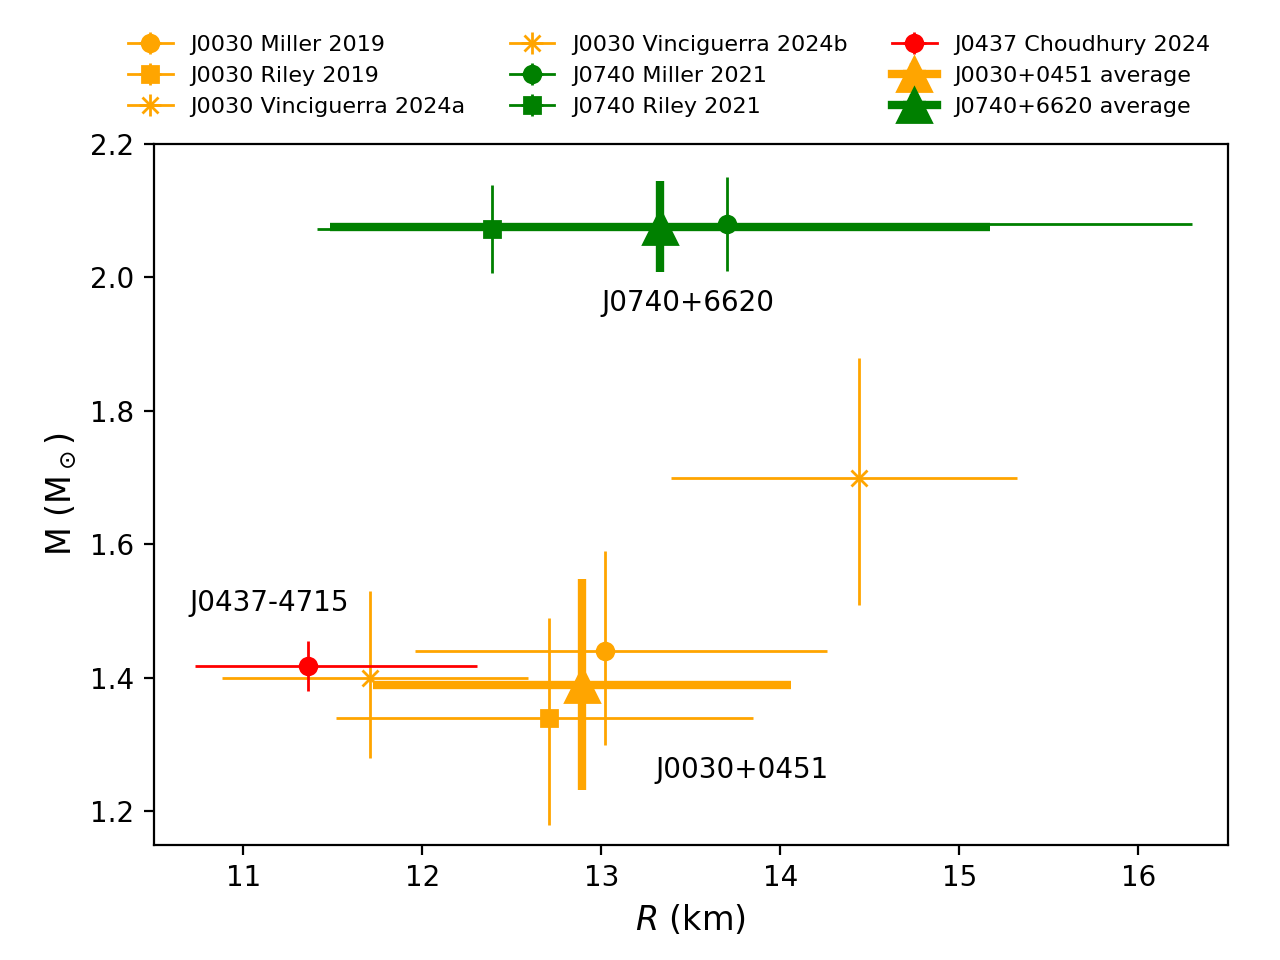
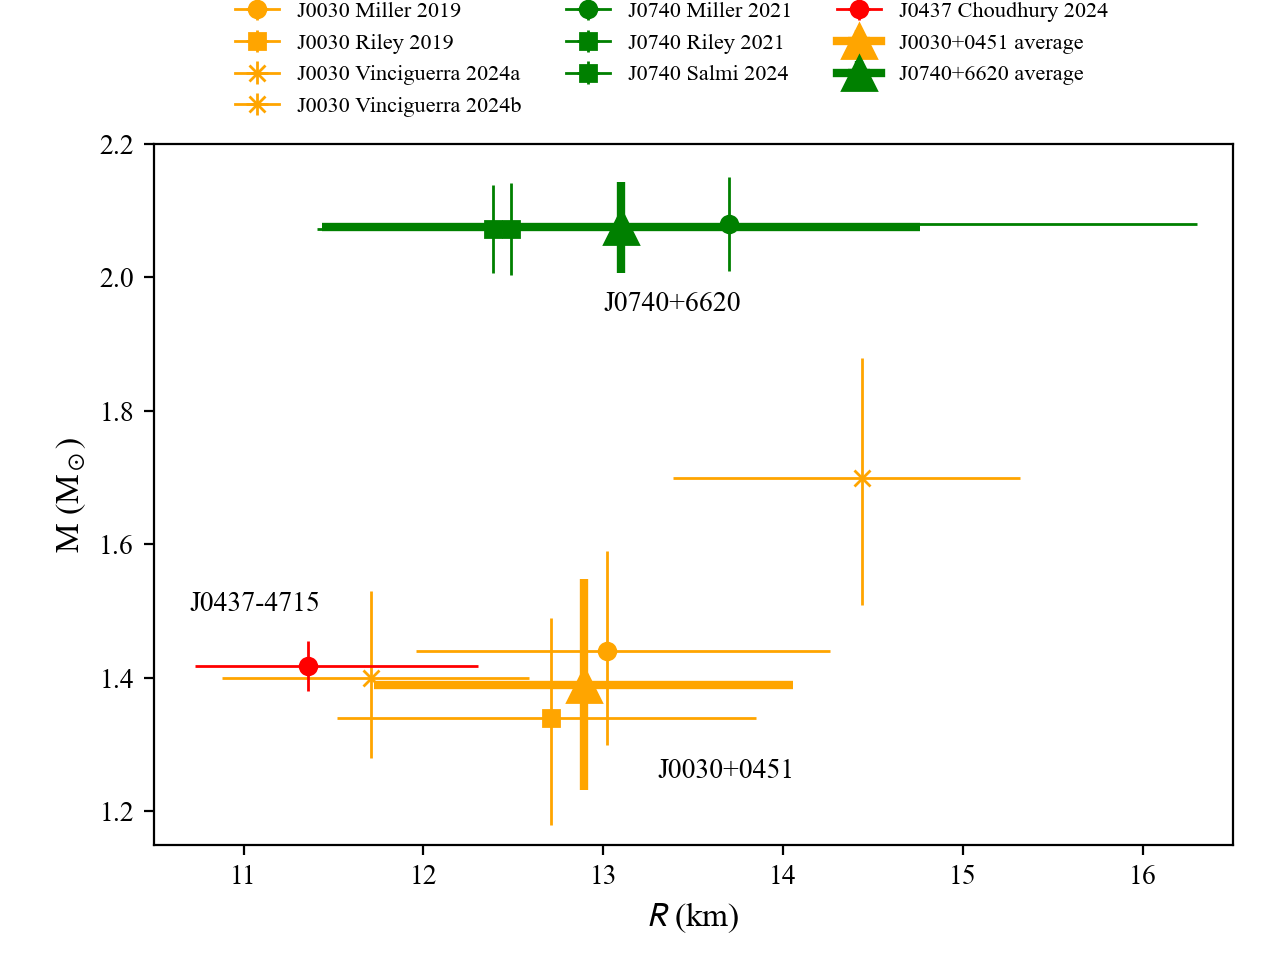
update MR measurements for MSP J0740

diff --git a/version-0.2/nucleardatapy/astro/setup_mr.py b/version-0.2/nucleardatapy/astro/setup_mr.py
@@ -39,7 +39,7 @@ def mr_obss( source ):
     if source.lower()=='j0030+0451':
         obss = [ 1, 2, 3, 4 ]
     elif source.lower()=='j0740+6620':
-        obss = [ 1, 2 ]
+        obss = [ 1, 2, 3 ]
     elif source.lower()=='j0437-4715':
         obss = [ 1 ]
     #
@@ -141,6 +141,14 @@ class setupMR():
                 self.ref='T.E. Riley, A.L. Watts, P.S. Ray, S. Bogdanov, et al., ApJL 918, L27 (2021).'
                 #: Attribute providing the label the data is references for figures.
                 self.label = 'J0740 Riley 2021'
+                #: Attribute providing additional notes about the observation.
+                self.note = "write notes about this observation."
+                self.marker = 's'
+            elif obs==3:
+                #: Attribute providing the full reference to the paper to be citted.
+                self.ref='T. Salmi, D. Choudhury, Y. Kini, T.E. Riley et al., ApJ 974, 294 (2024).'
+                #: Attribute providing the label the data is references for figures.
+                self.label = 'J0740 Salmi 2024'
                 #: Attribute providing additional notes about the observation.
                 self.note = "write notes about this observation."
                 self.marker = 's'

diff --git a/version-0.2/nucleardatapy/fig/astro_setupMR_fig.py b/version-0.2/nucleardatapy/fig/astro_setupMR_fig.py
@@ -56,17 +56,19 @@ def astro_setupMR_fig( pname, sources, sources_av ):
             #
         isource += 1
         #
-    isource = 1
-    for source in sources_av:
+    #isource = 1
+    for isource,source in enumerate(sources_av):
+        #if source.lower() == 'j0030+0451': 
+        #    obss = [ 1, 2 ]
+        #if source.lower() == 'j0740+6620': 
+        #    obss = [ 1, 2, 3 ]
+        obss = nuda.astro.mr_obss( source = source )
         if source.lower() == 'j0030+0451': 
-            obss = [ 1, 2 ]
-        if source.lower() == 'j0740+6620': 
             obss = [ 1, 2 ]
         mrav = nuda.astro.setupMRAverage( source = source, obss = obss )
         if nuda.env.verb_output: mrav.print_output( )
         if nuda.env.verb_latex: mrav.print_latex( )
-        axs.errorbar( mrav.rad_cen, mrav.mass_cen, xerr=mrav.rad_sig_std, yerr=mrav.mass_sig_std, ms=12, label=mrav.label, color=nuda.param.col[isource], marker='^', linestyle = 'solid', linewidth = 3 )
-        isource += 1
+        axs.errorbar( mrav.rad_cen, mrav.mass_cen, xerr=mrav.rad_sig_std, yerr=mrav.mass_sig_std, ms=12, label=mrav.label, color=nuda.param.col[isource+1], marker='^', linewidth = 3 )
     #
     # write source name in plot:
     #

diff --git a/version-0.2/nucleardatapy_samples/astro_setupMR_script.py b/version-0.2/nucleardatapy_samples/astro_setupMR_script.py
@@ -31,7 +31,11 @@ def main():
     #
     # Average
     #
+    print('averages:')
+    #
     sources_av = [ 'J0030+0451', 'J0740+6620' ]
+    #
+    print('sources considered:',sources_av)
     #
     for source in sources_av:
         #
@@ -39,7 +43,7 @@ def main():
         #
         obss = nuda.astro.mr_obss( source = source )
         print(f'source: {source}, obss: {obss}')
-        mrav = nuda.astro.setupMRAverage( source = source )
+        mrav = nuda.astro.setupMRAverage( source = source, obss = obss )
         if nuda.env.verb_output: mrav.print_output( )
         if nuda.env.verb_latex: mrav.print_latex( )
         #
